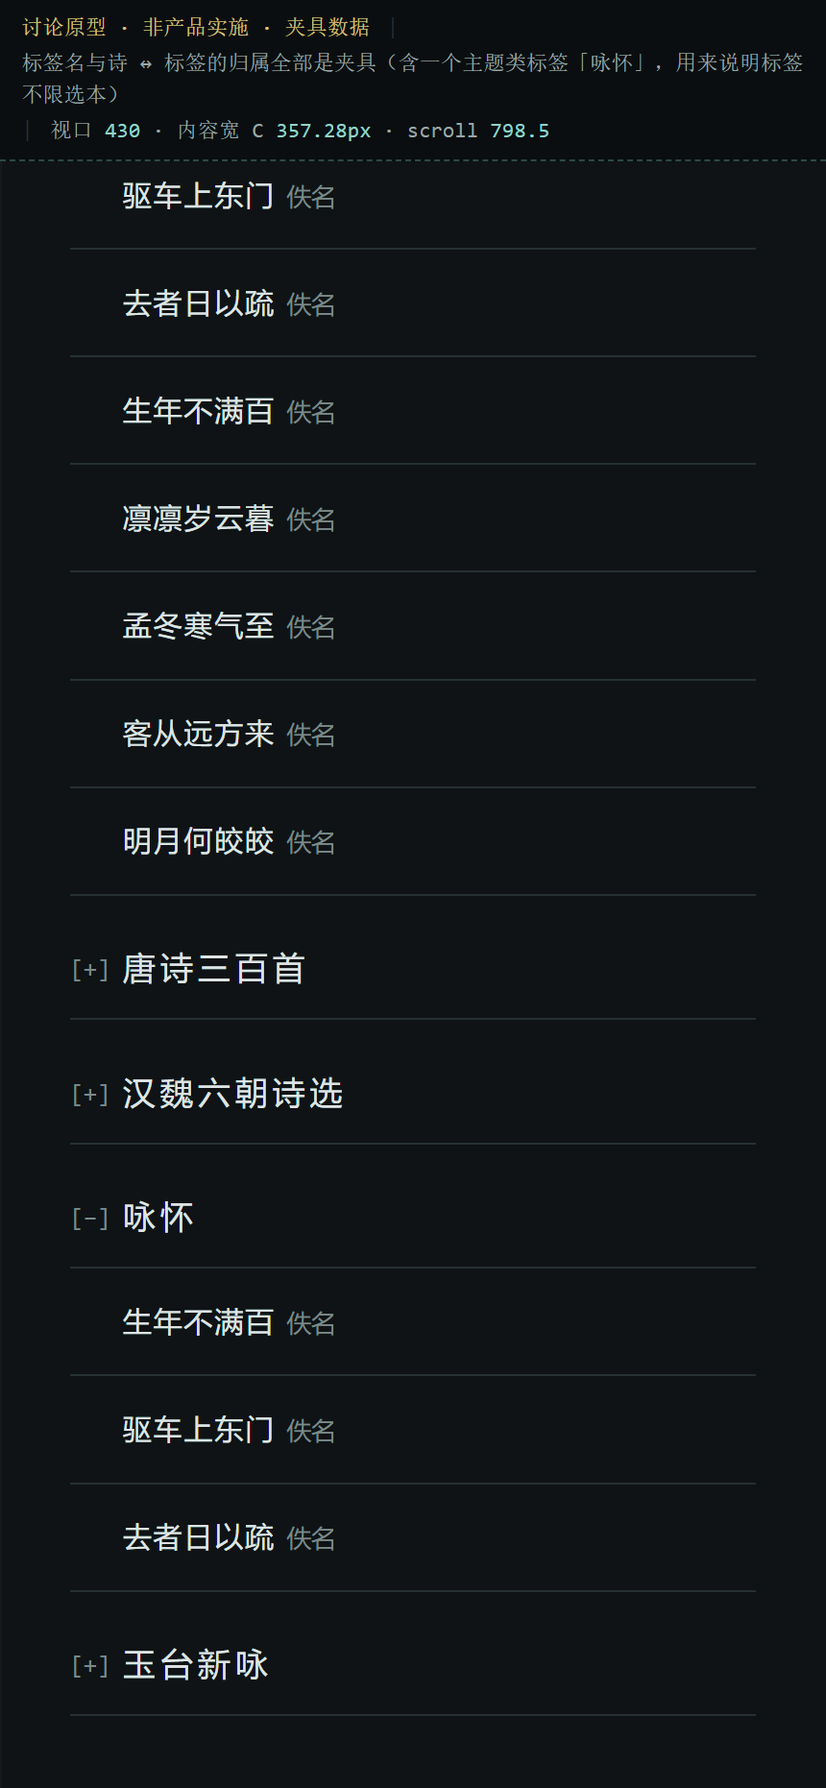
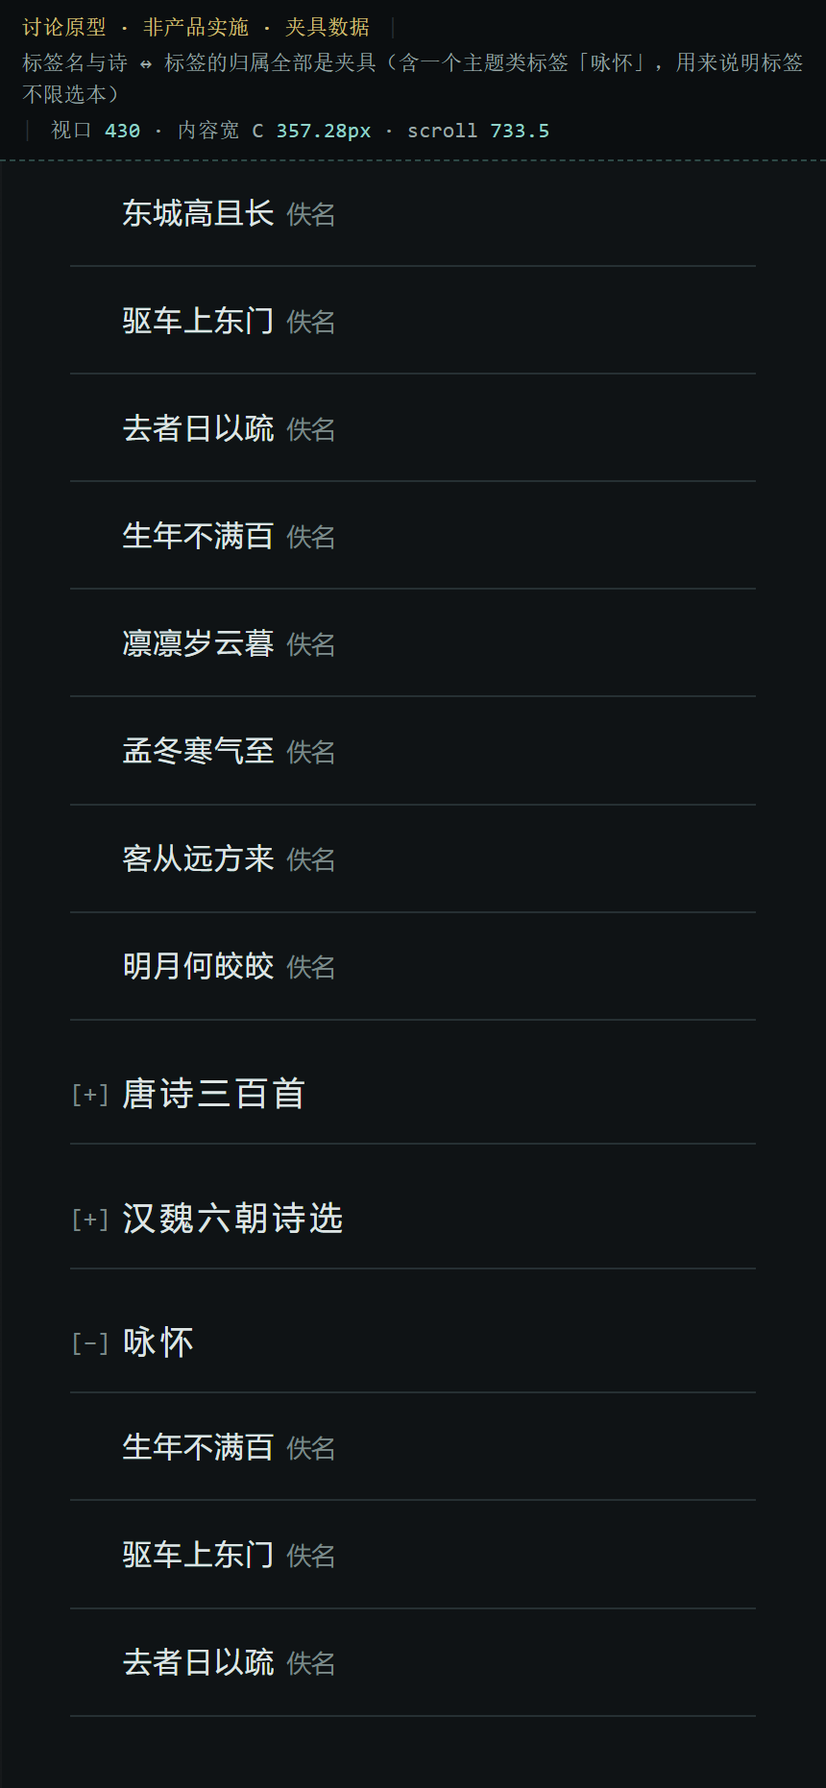
fix(items/tag-views): 零成员标签不再渲染（用户：标签下面没有诗就该没有标签）——只原型、未推、未发布
- q-tag-views.html：renderTags 渲染前按「成员数 ≥ 1」过滤；groupBlock 的空组分支与
  data-test=tempty 整块删除（「这个标签下还没有诗。」随之消失）；夹具里零成员标签
  （玉台新咏）保留作反例，只加 window.__TAGFIX 供自检读数据。
- check-tag-views.mjs：§7 换成成对三条（数据里仍有零成员标签 / 页面不出现它 / 有诗的
  4 个标签仍在且对齐不变）；§2 组头数 5→4；§4 收起组改为唐诗三百首/汉魏六朝诗选。
- README：「与上一版的变化」加两条；未表达加「全库无标签时的整页空态未表达」。
- 图：git rm 06-tag-empty-open.430.png（该状态已不存在），其余 8 张重跑（02/04 有变）。

断言 67 条 / 失败 0。只原型，未推、未发布、未动 schema/content/web/android/tools/docs。

diff --git a/items/tag-views/prototypes/q-tag-views.html b/items/tag-views/prototypes/q-tag-views.html
@@ -79,7 +79,7 @@
   --ctl-size: 0.82rem;           /* [草案] 控件（返回／详情／tab） */
   --ctl-ls: 0.06em;
   --meta-size: 0.78rem;          /* [草案] 诗页身份行 */
-  --empty-top: 1.9rem;           /* [草案] 空标签里那句空态的上方留白 */
+  --empty-top: 1.9rem;           /* [草案] 兜底一句（如「这首诗不在夹具里」）的上方留白 */
   --head-pad-top: 1.5rem;        /* [已定] 诗页题头上方留白 */
   --title-gap: 0.7rem;           /* [已定] 题名 → 身份行 */
   --body-gap: 2.1rem;            /* [已定] 身份行 → 原文 */
@@ -236,7 +236,8 @@ a.ctl, button.ctl { background: none; border: 0; padding: 0; cursor: pointer; }
 .plink:hover { background: var(--surface-hover); }
 .ptitle { letter-spacing: var(--ptitle-ls); overflow-wrap: anywhere; }
 .pauthor { font-size: var(--author-size); color: var(--text-faint); margin-left: var(--author-gap); }
-/* 空标签展开后的一句空态（**不写「0 首」**） */
+/* 兜底一句。⚠ 零成员的标签**不再渲染**（本轮返修），所以「这个标签下还没有诗」那句已随分支删除；
+ *   .gempty 现在只剩「这首诗不在夹具里」这类兜底用途。 */
 .gempty {
   margin: 0;
   padding: var(--empty-top) 0 0 var(--slot);
@@ -341,6 +342,9 @@ a.ctl, button.ctl { background: none; border: 0; padding: 0; cursor: pointer; }
     'yutai-xinyong': []
   };
   function tagById(id) { for (var i = 0; i < TAGS.length; i++) if (TAGS[i].id === id) return TAGS[i]; return null; }
+  /* 只给自检脚本（check-tag-views.mjs）读的夹具出口：让脚本能**在运行的页面里**核对
+   * 「零成员标签确实还在数据里」（而不是只看页面文本）。原型专用，产品无此物。 */
+  window.__TAGFIX = { tags: TAGS, tagging: TAGGING, members: tagPoems };
   /* 标签下的诗：**按夹具的标签内次序排**（这个次序值本身不显示在界面上） */
   function tagPoems(id) {
     return (TAGGING[id] || []).map(function (x) { return BY_ID[x.id]; }).filter(function (p) { return !!p; });
@@ -515,7 +519,8 @@ a.ctl, button.ctl { background: none; border: 0; padding: 0; cursor: pointer; }
    *     opts ：{ count } —— 只有朝代 tab 传 count；标签 tab **不传**（组头不出现任何数量）
    *     组头＝悬挂记号 [−]/[+] ＋ 组名，**整行可点**；初态收起由调用方决定
    *     展开后：子诗目＝题名左沿与组名首字同一竖线（缩进 0）＋ 作者紧随；**无序号**
-   *     空组（只有标签 tab 会有）：展开后给一句空态，**不写「0 首」**
+   *     ⚠ 没有「零成员的组」这一种输入：朝代 tab 跳过空朝代，标签 tab 在渲染前就
+   *        把「本库没有关联任何诗」的标签滤掉（见 renderTags）⇒ 这里不再有空态分支。
    * ══════════════════════════════════════════════════════════════ */
   function groupBlock(key, name, poems, open, opts) {
     opts = opts || {};
@@ -541,12 +546,6 @@ a.ctl, button.ctl { background: none; border: 0; padding: 0; cursor: pointer; }
     }
     grp.appendChild(head);
     if (!open) return grp;
-    if (!poems.length) {
-      var em = el('p', 'gempty', '这个标签下还没有诗。');
-      em.setAttribute('data-test', 'tempty');
-      grp.appendChild(em);
-      return grp;
-    }
     var ul = el('ul', 'glist');
     ul.setAttribute('data-test', 'glist');
     poems.forEach(function (p) {
@@ -579,9 +578,16 @@ a.ctl, button.ctl { background: none; border: 0; padding: 0; cursor: pointer; }
   function renderTags() {
     clear(colEl);
     colEl.appendChild(hubTopline('tags'));
-    /* 与朝代页同构：每个标签就是一个组头；**组头不带数量**、页面不出现任何数量 */
+    /* 与朝代页同构：每个标签就是一个组头；**组头不带数量**、页面不出现任何数量。
+     * [本轮返修 · 用户 2026-10-18] 「标签下面没有诗就该没有标签，而不是显示『这个标签下还没有诗。』」
+     *   判据＝**成员数 ≥ 1**（该标签在本库至少关联 1 首诗）。零成员的标签**不渲染**：
+     *   不出现组头、不出现展开按钮、不出现任何空态说明文字。
+     *   ⚠ 只是不出界面：标签定义与（空的）归属仍留在夹具里（见 TAGS/TAGGING 的 yutai-xinyong），
+     *     不是删除标签、也不是给它造作品。无标签的诗**照旧留在朝代页**。 */
     TAGS.forEach(function (t) {
-      colEl.appendChild(groupBlock('tag:' + t.id, t.name, tagPoems(t.id), !!exp.tag[t.id], {}));
+      var poems = tagPoems(t.id);
+      if (poems.length < 1) return;
+      colEl.appendChild(groupBlock('tag:' + t.id, t.name, poems, !!exp.tag[t.id], {}));
     });
   }
 

diff --git a/items/tag-views/prototypes/README.md b/items/tag-views/prototypes/README.md
@@ -22,7 +22,7 @@ node items/tag-views/prototypes/check-tag-views.mjs --no-shot  # 只跑断言
 | 部分 | 来源 | 状态 |
 |---|---|---|
 | 22 首诗（汉 19 / 唐 2 / 近现代 1）的题名、作者、朝代、体裁、正文分行、`source`、`## 详情` | `content/poems/**/*.md`（**只读**抄入内嵌 JSON） | **真实**，与源文件逐行一致（断言：诗页正文＝源文件正文） |
-| 5 个标签的名字（古诗十九首／唐诗三百首／汉魏六朝诗选／咏怀／玉台新咏） | 本文件内的 `TAGS` | **夹具**（临时编造；其中一个「咏怀」是**主题类**，只用来证明界面不假设「标签＝选本」） |
+| 5 个标签的名字（古诗十九首／唐诗三百首／汉魏六朝诗选／咏怀／玉台新咏） | 本文件内的 `TAGS` | **夹具**（临时编造；其中一个「咏怀」是**主题类**，只用来证明界面不假设「标签＝选本」；「玉台新咏」成员数 0，是**反例**——见 §5） |
 | 诗 ↔ 标签的归属、标签内次序 `orderInTag` | 本文件内的 `TAGGING` | **夹具** |
 
 ⚠ **不显示序号 ≠ 删除数据**：夹具里**保留**了 `orderInTag`（标签内次序），只是本轮 UI **不渲染**它。`orderInTag` 与底本次序 `orderInSource` 是**两个不同字段**（夹具里「唐诗三百首」给的是 172，而该诗 `orderInSource`＝1）——本轮界面上两个数都不显示，但数据形状没有被删。
@@ -35,7 +35,7 @@ node items/tag-views/prototypes/check-tag-views.mjs --no-shot  # 只跑断言
 |---|---|---|---|---|
 | 1 | 「A的tab比较合适，但不叫选本，叫tag或者标签」 | 顶部两个 tab 就是**「朝代 ｜ 标签」**；标签视图里**每一处文案都叫「标签」**，页面文本里**不出现「选本」二字**（断言反查 `选本`） | 02、03 | 「顶部是朝代｜标签」「标签页不出现『选本』字样」 |
 | 2 | 「页面结构和朝代页保持一致，也是点击展开、对齐等一致」 | 标签 tab **和朝代页共用同一段渲染**（`groupBlock`）：组头＝**悬挂 `[+]/[−]`（竖直居中）＋标签名**、**整行可点**、**初态全部收起**、**各组独立展开**、悬挂槽 27.52／缝 `0.4rem`；展开后的子诗目**题名左沿＝标签名首字左沿（缩进 0）**、**作者紧随题名** | 01 vs 02/03/04 | 「记号悬挂」「竖直居中 ≤1.5px」「题名左沿＝标签名首字 ≤0.6px」「＝内容列+27.52」「点组名也能展开」「其余组仍收起」 |
-| 3 | 「不用显示数量」 | **标签页零数量**：组头没有计数、没有「本库已收录 N 首」、没有 `001` 类编号、空标签**不写「0 首」**；**朝代页原来的计数 `[19] 首` 一字未改** | 01、02、03、06 | 「标签页组头不带任何计数（无 .gcount）」「标签页没有任何数量」「朝代分组仍是 3 组，计数 19/2/1 首（本轮未改动）」 |
+| 3 | 「不用显示数量」 | **标签页零数量**：组头没有计数、没有「本库已收录 N 首」、没有 `001` 类编号；**朝代页原来的计数 `[19] 首` 一字未改** | 01、02、03 | 「标签页组头不带任何计数（无 .gcount）」「标签页没有任何数量」「朝代分组仍是 3 组，计数 19/2/1 首（本轮未改动）」 |
 | 4 | 「基于这样的说法再出一个版本原型吧」 | **只出一版**：A／B／C 切换与「选本列表 → 独立诗目页」那一层**整层删除**；上一轮材料归档留审计线索 | 全部 | 「本轮只有一版：页面里没有 A/B/C 候选切换（无 data-mode 控件）」 |
 
 **补充两条（对话侧 2026-10-18 确认，已按此实现）**
@@ -64,11 +64,13 @@ node items/tag-views/prototypes/check-tag-views.mjs --no-shot  # 只跑断言
 |---|---|
 | **删掉 A／B／C 三入口** | 原型条上不再有模式切换；页面只有一版「顶部 tab」；`data-mode` 控件整块不存在（断言） |
 | **删掉「选本列表 → 独立诗目页」这一层** | 不再有「列出所有选本、每行带已收录数」的列表页，也没有「某选本一页」的下钻页；标签 tab 自己就是**一份与朝代页同构的可展开列表** |
-| **删掉标签页的全部数量** | 组头计数、页面元信息「本库已收录 N 首 · 按选本次序」、子诗目前的 `001` 悬挂序号——全部删除；空标签展开后**只有一句空态**（「这个标签下还没有诗。」），**不写「0 首」** |
+| **删掉标签页的全部数量** | 组头计数、页面元信息「本库已收录 N 首 · 按选本次序」、子诗目前的 `001` 悬挂序号——全部删除 |
 | **子诗目去序号** | 行＝题名＋作者，题名左沿＝标签名首字左沿；序号字段 `orderInTag` 仍在夹具数据里（不显示≠删除） |
 | **文案「选本」→「标签」** | 页面文案一律「标签」；「选本」只出现在归档目录名与本说明里，应用页面不出现 |
 | **朝代 tab 未动** | 仍是 3 组、计数 `[19]/[2]/[1] 首`、`[+]/[−]` 悬挂、初态收起、整行可点（断言逐条守） |
 | **上一轮检查口径作废** | 上一版 README 的「8 条逐条点名」和「本库已收录 N 首」那套口径**已被本轮用户决定替代**，只在归档目录里保留作审计线索，**不再作为本轮检查口径**；本轮断言按上面 ① 的要求重写（见 §8） |
+| **零成员标签不再渲染**（本轮返修） | 判据＝**成员数 ≥ 1**（该标签在本库至少关联 1 首诗）；成员数 0 的标签**不渲染**：不出现组头、不出现展开按钮、不出现任何空态文字（用户 2026-10-18：「标签下面没有诗就该没有标签」）。夹具里那条零成员标签（玉台新咏）**仍留在数据里作反例**，只是不出界面；也不是删除标签定义、不是给它造作品；无标签的诗仍留在朝代页 |
+| **「这个标签下还没有诗。」那句空态随之消失** | `groupBlock` 里的空组分支与 `data-test="tempty"` 整块删除（两个 tab 都不会再产出零成员的组）；`.gempty` 只剩「这首诗不在夹具里」这种兜底用途；因此 `06-tag-empty-open.430.png` 对应的状态**已不存在**，该图已 `git rm` |
 
 ## 6 · ④ 未表达（诚实清单）
 
@@ -80,30 +82,31 @@ node items/tag-views/prototypes/check-tag-views.mjs --no-shot  # 只跑断言
 6. **标签改名与稳定标识**（§2.6）：夹具里 `id` 与显示名分开写，但界面上看不出差别；没有演示「改显示名而归属不断」。
 7. **一首诗属于多个标签**：数据里有（`行行重行行` 同时属「古诗十九首」与「汉魏六朝诗选」），但界面**不显示「这首诗有哪些标签」**——只有单向「标签 → 诗」。
 8. **标签是否只承载选本**（§2.10 未定）：本轮**不假设**。所以夹具里特意放了一个主题类标签「咏怀」；若将来语义收敛成「只有选本」，页面文案不用改，但夹具这个例子要换。
-9. **标签自身的排序**：本轮按夹具数组顺序（古诗十九首 → … → 玉台新咏）；标签多了怎么排（拼音？手工？不可见标签怎么处理）**未定**。
-10. **标签很多时的表现**：只有 5 个组头，没有表达 20／50 个标签时的滚动与分组。
-11. **其他浏览轴**：作者视图、体裁视图一律没做（本项只要「朝代 ＋ 标签」）。
-12. **宽度只出 320 与 430**：834／1180／横屏没出图（宽度口径本身是已选的）。
-13. **长题名折行、超长诗行**：没放这类夹具，也没表达（已选规则在 `ui-poem`，本轮不重开）。
-14. **关于页**：顶部「关于」是不导航的控件（`title` 写了「本原型不实现关于页」）。
-15. **详情 Markdown 全子集**：只渲染真实 `detail` 里出现的三类元素（`###` 小标题、`- ` 列表、段落＋`**粗体**`），不是通用渲染器；本库这些诗都没有笔记 ⇒ 笔记入口整块不存在。
-16. **`captureBeyondViewport` 的已知坑（记录一次踩坑）**：整页渲染 + 裁切时，Chromium 会临时重排，页面高度一变滚动就被夹到另一个值，而**顶部 sticky 原型条**已按那个值贴住 ⇒ 图里条的位置与裁切起点对不上（第一次跑就撞到：JS 读到 y=520，图里条却画在 688、条上读数也是 688）。所以**「滚动位置本身就是证据」的那张图改用视口直捕**（`05`），其余仍用整页渲染 + 裁切。改的是截图方法，不是页面。
+9. **标签自身的排序**：本轮按夹具数组顺序（古诗十九首 → 唐诗三百首 → 汉魏六朝诗选 → 咏怀）；标签多了怎么排（拼音？手工？）**未定**。⚠ 排序里已不再出现零成员标签（它不渲染），所以「不可见标签怎么参与排序」这个问题本轮**没有表达**。
+10. **标签很多时的表现**：只有 4 个组头，没有表达 20／50 个标签时的滚动与分组。
+11. **全库无标签时的整页空态未表达**：本轮只定了「零成员标签不渲染」；若**所有**标签都没有诗（或本库一个标签都没有），标签页就是一片空白（只剩顶部两个 tab 与「关于」）——用户**本轮没说**这种情况该怎么办，因此**没有**实现任何整页空态文案，此处只记录为未表达。
+12. **其他浏览轴**：作者视图、体裁视图一律没做（本项只要「朝代 ＋ 标签」）。
+13. **宽度只出 320 与 430**：834／1180／横屏没出图（宽度口径本身是已选的）。
+14. **长题名折行、超长诗行**：没放这类夹具，也没表达（已选规则在 `ui-poem`，本轮不重开）。
+15. **关于页**：顶部「关于」是不导航的控件（`title` 写了「本原型不实现关于页」）。
+16. **详情 Markdown 全子集**：只渲染真实 `detail` 里出现的三类元素（`###` 小标题、`- ` 列表、段落＋`**粗体**`），不是通用渲染器；本库这些诗都没有笔记 ⇒ 笔记入口整块不存在。
+17. **`captureBeyondViewport` 的已知坑（记录一次踩坑）**：整页渲染 + 裁切时，Chromium 会临时重排，页面高度一变滚动就被夹到另一个值，而**顶部 sticky 原型条**已按那个值贴住 ⇒ 图里条的位置与裁切起点对不上（第一次跑就撞到：JS 读到 y=520，图里条却画在 688、条上读数也是 688）。所以**「滚动位置本身就是证据」的那张图改用视口直捕**（`05`），其余仍用整页渲染 + 裁切。改的是截图方法，不是页面。
 
 ## 7 · 我实际看了哪几张图（每张确认了什么）
 
 | 图 | 确认了什么 |
 |---|---|
 | `01-dynasty.430.png` | 朝代 tab 没被挤掉：顶部「朝代（选中，下划线）｜标签」＋右侧「关于」；`[−] 汉` ＋ 右侧 `[19] 首`（**计数照旧**）；展开的 19 行诗目题名与「汉」首字同一竖线、作者紧随；**没有序号** |
-| `02-tags-collapsed.430.png` | 标签 tab **全收起**：5 个组头全是 `[+]` ＋ 标签名（古诗十九首／唐诗三百首／汉魏六朝诗选／咏怀／玉台新咏），**组头右侧一片空白**（无计数）、页面无任何数字；结构与 01 完全同构 |
+| `02-tags-collapsed.430.png` | 标签 tab **全收起**：**4 个**组头全是 `[+]` ＋ 标签名（古诗十九首／唐诗三百首／汉魏六朝诗选／咏怀）——夹具里那条零成员标签「玉台新咏」**不在页面上**，也没有任何空态文字；**组头右侧一片空白**（无计数）、页面无任何数字；结构与 01 完全同构。**这张同时就是「零成员标签不出现、有诗标签仍在」的证据图**（同一屏，没另造状态） |
 | `03-tag-one-open.430.png` | **单个组展开**：`[−] 古诗十九首`，19 行子诗目，题名左沿与标签名首字**同一条竖线**（缩进 0）、作者紧随、**无 `001`**；没有「本库已收录」之类元信息行 |
-| `04-tags-multi-open.430.png` | **多个组展开**：古诗十九首的行尾 ＋ `[+] 唐诗三百首`／`[+] 汉魏六朝诗选`（仍收起）＋ `[−] 咏怀` 展开 3 行 ＋ `[+] 玉台新咏`——各组独立展开，互不影响 |
+| `04-tags-multi-open.430.png` | **多个组展开**：古诗十九首的行尾 ＋ `[+] 唐诗三百首`／`[+] 汉魏六朝诗选`（仍收起）＋ `[−] 咏怀` 展开 3 行；**咏怀下面直接就是页尾，没有第 5 个组头**（玉台新咏不渲染）——各组独立展开，互不影响 |
 | `05-tag-return-restored.430.png` | **进诗再返回后**：仍在标签视图，两个组**仍然展开**，且**停在同一滚动位置**（条上 `scroll 520`，第一屏从「冉冉孤生竹」起，不是顶部） |
-| `06-tag-empty-open.430.png` | **空标签展开**：`[−] 玉台新咏` 下只有一句「这个标签下还没有诗。」，**没有「0 首」**、没有空行占位 |
+| ~~`06-tag-empty-open.430.png`~~ | **已删（`git rm`）**：那个状态（空标签展开后一句「这个标签下还没有诗。」）按本轮决定**不再存在**——零成员标签根本不渲染，所以没有「点开它」这一步 |
 | `07-poem.430.png` | 诗页继承已选：左上「返回」／右上「详情」（**无条件显示**）／题名与身份行居中、正文逐行居中、无笔记入口、无页脚 |
 | `08-detail.430.png` | 无 `## 详情` 的诗（青青河畔草）**也有详情页**：诗题左对齐＋「底本与来源」＋来源文本，**没有**详情正文块 |
 | `09-tags-320.320.png` | **320 窄屏**：C=320（列外余白 0）、无横向溢出；展开后题名左沿仍与标签名对齐 |
 
-## 8 · 自检（**64 条断言 / 失败 0**，可复跑）
+## 8 · 自检（**67 条断言 / 失败 0**，可复跑）
 
 ```sh
 node items/tag-views/prototypes/check-tag-views.mjs            # 出图 + 断言
@@ -112,12 +115,16 @@ node items/tag-views/prototypes/check-tag-views.mjs --no-shot   # 只断言
 
 按本轮要求重写的断言（不是上一版那套）：
 
-- **无数量**：标签页组头没有 `.gcount`；标签页文本里没有任何计数／「本库已收录」／`[N]` 编号；空标签不写「0 首」；展开与收起两种状态都查。
+- **无数量**：标签页组头没有 `.gcount`；标签页文本里没有任何计数／「本库已收录」／`[N]` 编号；展开与收起两种状态都查。
+- **零成员标签不渲染（本轮返修的成对三条，替代旧的「空标签可展开」三条）**：
+  1. 夹具**数据里确实还有**那条零成员标签（运行时读 `window.__TAGFIX`：`TAGS` 共 5 条，`yutai-xinyong` 的成员数 `= 0`）——证明反例存在；
+  2. **页面文本里不出现**它的名字（无 `[data-ghead="tag:yutai-xinyong"]` 组头、无 `tempty`、无「还没有诗」类文案）；
+  3. **有诗的 4 个标签照常出现**（组头名与夹具逐步一致、顺序不变），且展开后子诗题对齐规则不变（见下一条）。
 - **组头可点**：**点在组名上**（不是点记号）也能展开／收起；`aria-expanded` 同步。
 - **初态收起**：`#/tags` 首屏没有任何 `.glist`、没有空态。
 - **`[+]/[−]` 悬挂**：记号右沿 < 标签名左沿；记号与标签名**竖直居中**（中心差 ≤ 1.5px）；展开后变 `[−]`。
 - **子诗题左沿对齐**：题名左沿＝标签名首字左沿（≤0.6px）＝内容列 + 27.52；作者紧随题名（间隙 < 12px、同一行）。
-- **空标签**：可展开、0 行、只有一句空态、整页无数字。
+- **空标签**：~~可展开、0 行、只有一句空态~~ **已作废** —— 零成员标签不渲染，没有「展开空标签」这一步（你看到的那条已删，换成上面那组成对三条）。
 - **返回保持**：进诗 → 返回仍在 `/tags`，两组仍展开、滚动 ±2px、条上读数与实测一致；**浏览器后退**同样回标签视图且展开保持。
 - **从哪个视图进就回哪个**：从朝代视图进的诗，返回回 `/hub`（汉组仍展开、滚动 ±2px）。
 - **返回链两步**：详情 → 诗页 → 标签视图，两级都只退一层；浏览器后退同样一次一层。
@@ -129,7 +136,7 @@ node items/tag-views/prototypes/check-tag-views.mjs --no-shot   # 只断言
 
 ## 9 · 哪些数是草案（别顺手当规格）
 
-不在 `docs/design/visual-tokens.md` 里、也不是用户选过的值，页面里统一标了 `[草案]`：tab 字号 `0.86rem`（沿用「关于」）、tab 选中下划线用 `--accent-line`、组头上下内边距 `0.85/0.7rem`、诗目行内边距 `0.9rem 1.05rem`、作者字号 `0.8rem` 与间隙 `0.45em`、空标签那句的上方留白 `1.9rem`、详情页各段间距。**这些都只是把结构表达出来**，不是已采纳的视觉。
+不在 `docs/design/visual-tokens.md` 里、也不是用户选过的值，页面里统一标了 `[草案]`：tab 字号 `0.86rem`（沿用「关于」）、tab 选中下划线用 `--accent-line`、组头上下内边距 `0.85/0.7rem`、诗目行内边距 `0.9rem 1.05rem`、作者字号 `0.8rem` 与间隙 `0.45em`、兜底一句（`.gempty`）的上方留白 `1.9rem`、详情页各段间距。**这些都只是把结构表达出来**，不是已采纳的视觉。
 
 ## 10 · 未做 / 不做
 
